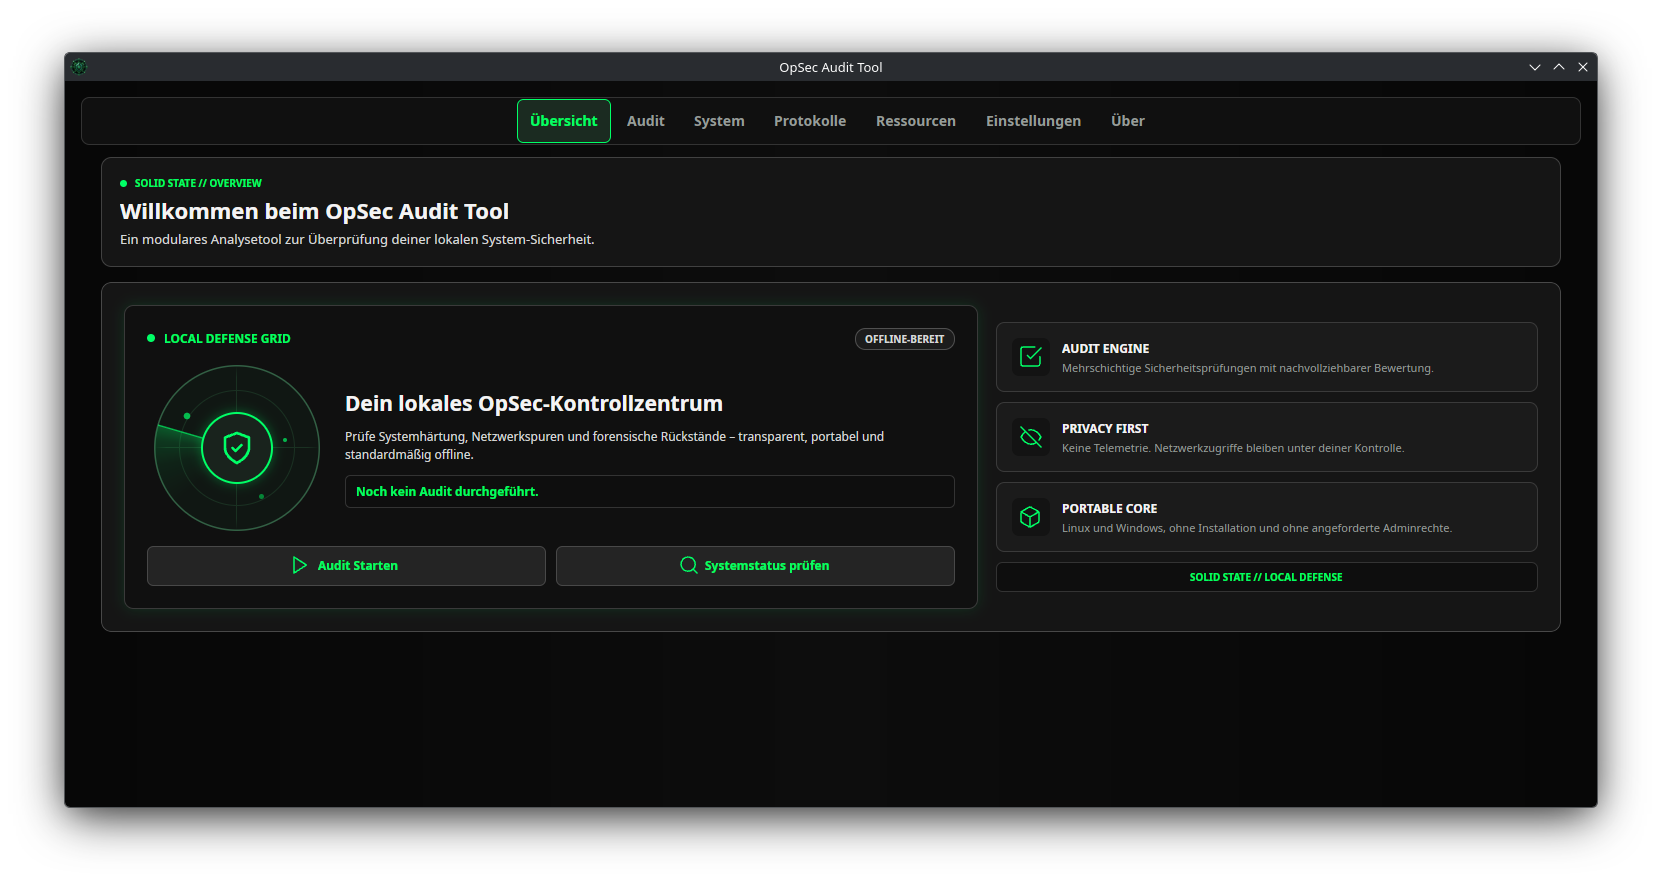
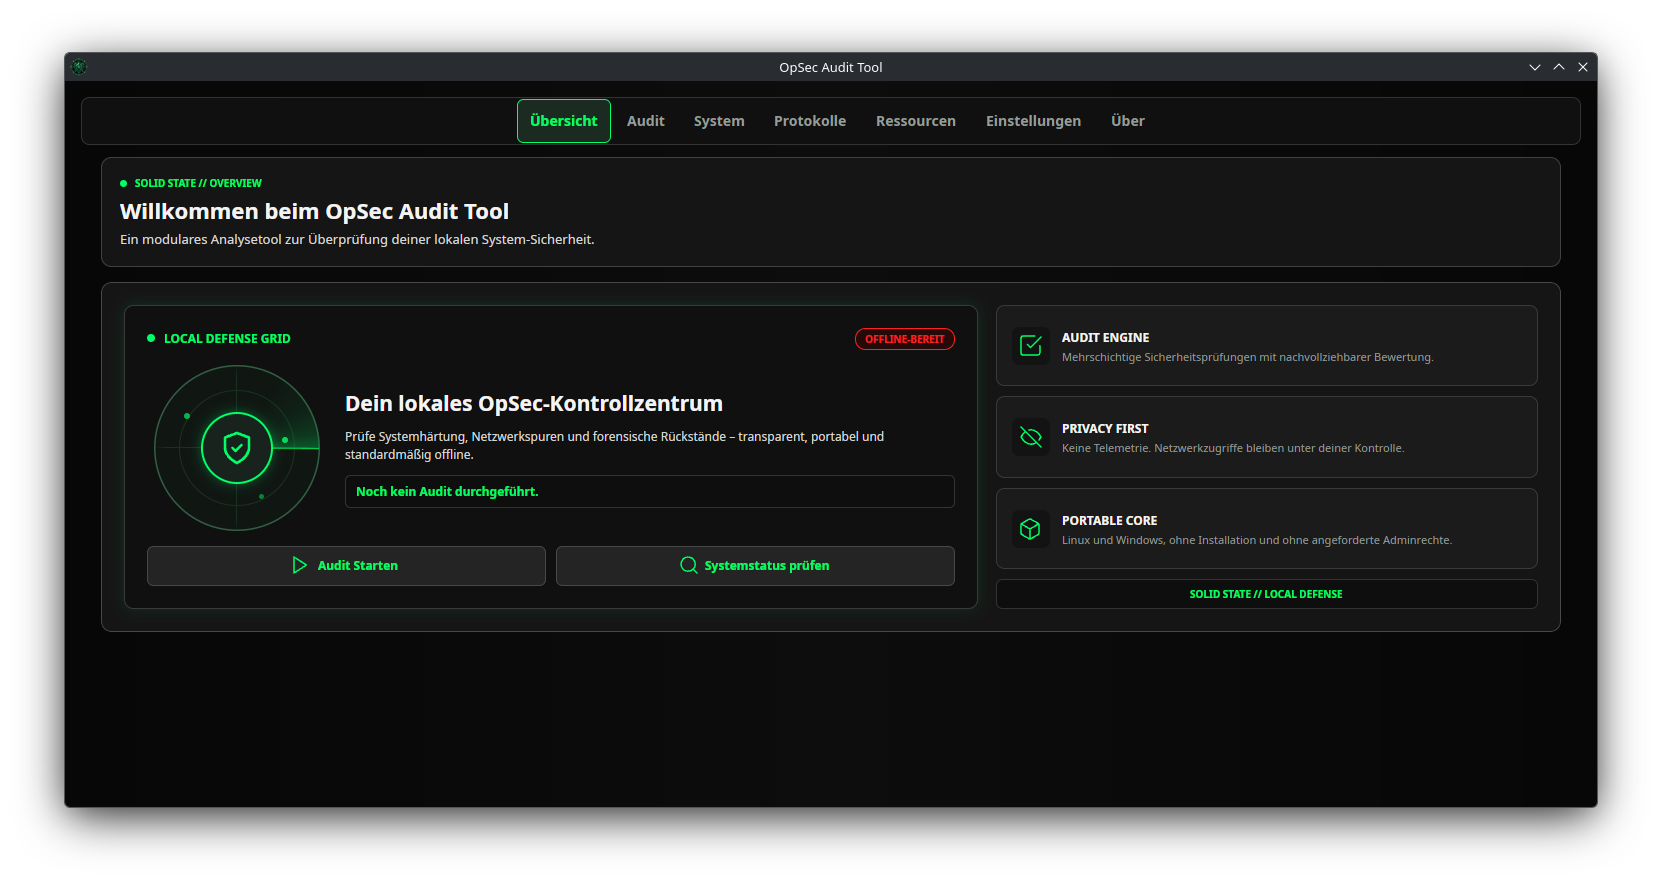
Polish interactive UI and refresh v1.0.0

diff --git a/ViewModels/MainViewModel.cs b/ViewModels/MainViewModel.cs
@@ -30,10 +30,10 @@ public sealed partial class MainViewModel : ViewModelBase, IDisposable
     private static readonly Uri PublicIpEndpoint = new("https://api.ipify.org");
     private static readonly IBrush OfflineStatusBackground = UiPalette.OfflineBackground;
     private static readonly IBrush OfflineStatusBorder = UiPalette.OfflineBorder;
-    private static readonly IBrush OfflineStatusForeground = UiPalette.AccentSoft;
+    private static readonly IBrush OfflineStatusForeground = UiPalette.Critical;
     private static readonly IBrush OnlineStatusBackground = UiPalette.OnlineBackground;
     private static readonly IBrush OnlineStatusBorder = UiPalette.OnlineBorder;
-    private static readonly IBrush OnlineStatusForeground = UiPalette.Warning;
+    private static readonly IBrush OnlineStatusForeground = UiPalette.Accent;
     private static readonly HttpClient PublicIpClient = new(
         new HttpClientHandler { CheckCertificateRevocationList = true })
     {

diff --git a/Theme/UiPalette.cs b/Theme/UiPalette.cs
@@ -23,10 +23,12 @@ public static class UiPalette
     public static readonly IBrush Error = Brush("#FF6363");
     public static readonly IBrush Critical = Brush("#FF2020");
 
-    public static readonly IBrush OfflineBackground = Brush("#1C1C1C");
-    public static readonly IBrush OfflineBorder = Brush("#505050");
-    public static readonly IBrush OnlineBackground = Brush("#2B2418");
-    public static readonly IBrush OnlineBorder = Brush("#705426");
+    // Netzwerkmodus: Rot signalisiert den bewusst abgeschalteten Zugang,
+    // Neon-Grün den freigegebenen Online-Modus.
+    public static readonly IBrush OfflineBackground = Brush("#260A0A");
+    public static readonly IBrush OfflineBorder = Brush("#FF2020");
+    public static readonly IBrush OnlineBackground = Brush("#082014");
+    public static readonly IBrush OnlineBorder = Brush("#00FF66");
 
     private static IBrush Brush(string value) =>
         new SolidColorBrush(Color.Parse(value));

diff --git a/docs/releases/v1.0.0.md b/docs/releases/v1.0.0.md
@@ -21,6 +21,9 @@ Der erste öffentliche Release des portablen OpSec Audit Tools von
   Datenschutzprinzipien sowie gruppierten XMPP- und PGP-Kontaktwegen
 - kompakte Audit-Ergebniskarten mit Statusfarben, gleichmäßigen Abständen und
   aufklappbaren technischen Details
+- vollständig anklickbare Einstellungskarten mit eindeutiger Zustandsanzeige
+- kräftige rote Offline- und neongrüne Online-Kennzeichnung im Kontrollzentrum
+- bündige, formstabile Header-Aktionen ohne Skalierung beim Anklicken
 - stabile Fenster- und Scrollbereiche ohne Größenwechsel beim Tabwechsel
 - explizite Versions- und Repository-Metadaten sowie bereinigte,
   kulturunabhängige Systemauswertung

diff --git a/README.md b/README.md
@@ -59,6 +59,10 @@ bereit.
 - einheitliches, responsives Layout von der kompakten Standardgröße bis Vollbild
 - kontrastreiches Cyber-Terminal-Theme mit neutral-schwarzen Flächen, Neon-Akzenten
   und klar getrennten Erfolgs-, Warn- und Fehlerfarben
+- unmittelbar erkennbare Online-/Offline-Anzeige mit dynamischer grüner
+  beziehungsweise roter Statusfarbe
+- vollständig anklickbare Einstellungskarten mit konsistentem Hover- und
+  Auswahlzustand
 - kompakte Projekt- und Kontaktübersicht mit XMPP- und öffentlichem PGP-Schlüssel
 - lokale Protokolle und exportierbare Audit-Berichte
 - keine Werbung, keine extern geladenen Medien und keine Analyse-Telemetrie
